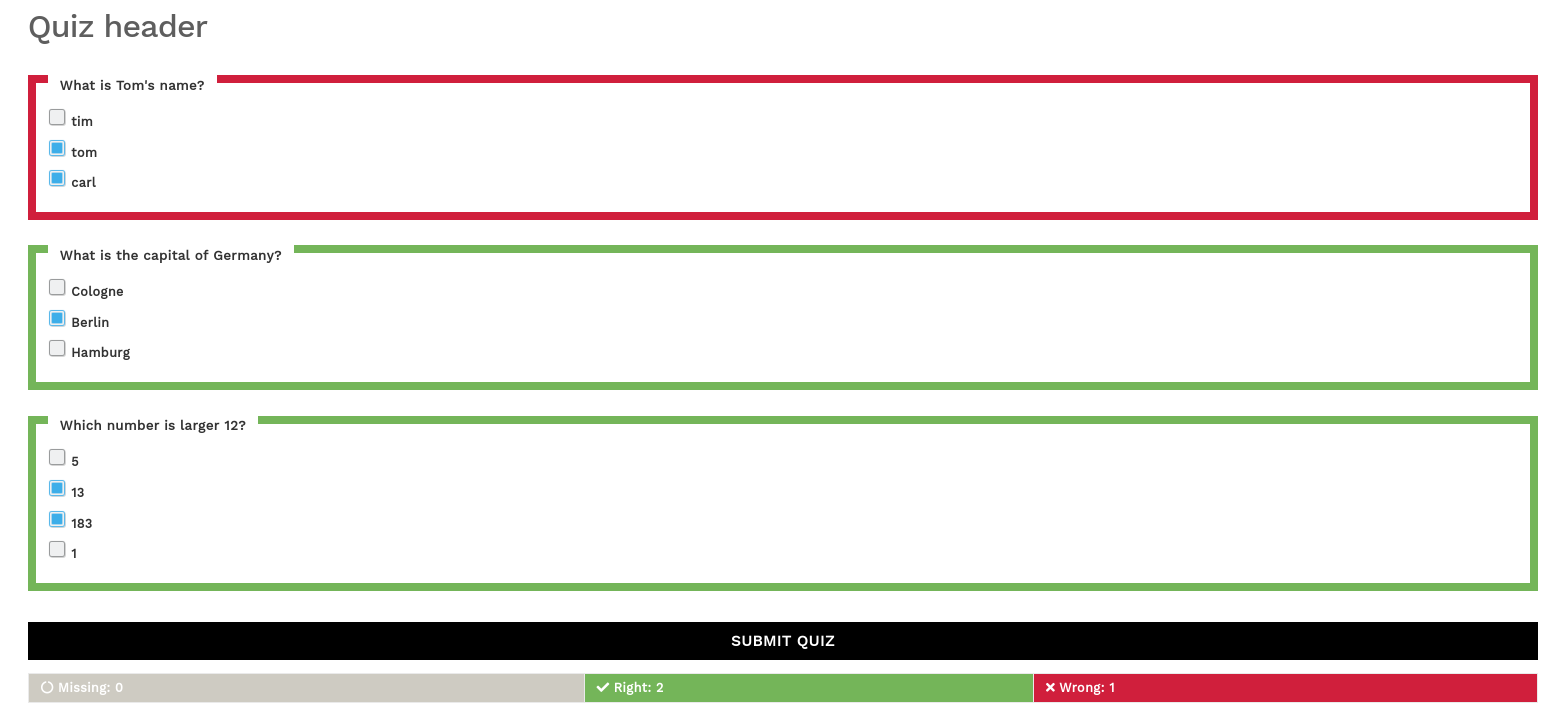
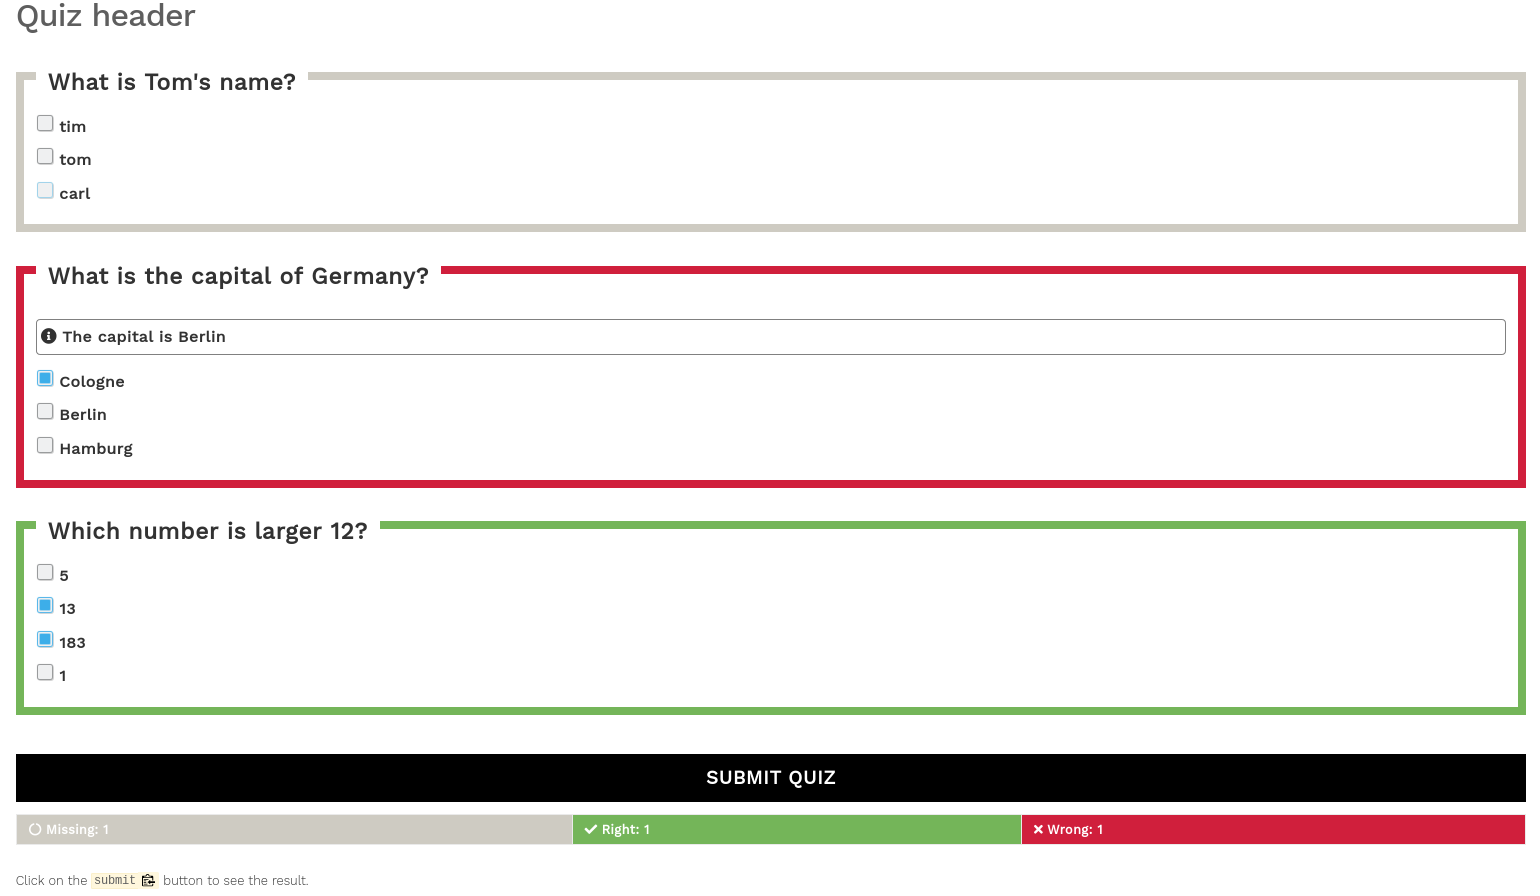
update to hugo 0.80.0 and add hints to questions (#5)
* update readme

* update hugo version

* update demo page

* add hint to questions

* update readme

* update styling

* update demo image

Changed region(s): [[0.0, 0.583, 0.9974, 1.0], [0.0, 0.0, 0.9974, 0.5523]]

diff --git a/demo/static/js/quiz.js b/demo/static/js/quiz.js
@@ -77,7 +77,7 @@ Quiz.prototype.create = function() {
 
 Quiz.prototype.submit = function() {
     var missing = 0,
-        right = 0,
+        right = this.getQuestions().length,
         wrong = 0;
 
     for (var q of this.getQuestions()) {
@@ -164,13 +164,15 @@ Result.prototype.render = function(id) {
 /**
  * @param {string} question to ask
  * @param {array} options to choose from
- * @param {integer} right option array index
+ * @param {array} right option array index
+ * @param {string} hint text that shows after wrong answer
  */
-function Question(question, options, rightOptions) {
+function Question(question, options, rightOptions, hint) {
     this.question = question;
     this.rightOptions = rightOptions;
     this.uid =  this._uid();
     this.options = this._createOptions(options);
+    this.hint = this._createHint(hint);
 
     this.RNDR_RIGHT = "#74b559",
     this.RNDR_WRONG = "#D01F3C",
@@ -185,6 +187,14 @@ Question.prototype._uid = function() {
     // https://stackoverflow.com/questions/3242324/javascript-dateobj-gettime-for-a-uid-is-the-length-not-fixed
     return "q" + Math.random().toString(36).substr(2,9);
 };
+
+/**
+ * @param  {array} options
+ * @return {array} of Option objects
+ */
+Question.prototype._createHint = function(_hint) {
+    return new Hint(_hint, this.uid);
+}
 
 
 /**
@@ -239,24 +249,29 @@ Question.prototype.render = function() {
 
     fieldset.classList.add('animated', 'fadeIn')
 
-
-
+    fieldset.insertBefore(this.hint.render(), fieldset.firstChild);
     return fieldset;
 };
 
 
 Question.prototype.renderMissing = function() {
-    document.getElementById(this.uid).style.borderColor = this.RNDR_MISSING;
+    var fieldset = document.getElementById(this.uid)
+    fieldset.style.borderColor = this.RNDR_MISSING;
 };
 
 
 Question.prototype.renderRight = function(first_argument) {
-    document.getElementById(this.uid).style.borderColor = this.RNDR_RIGHT;
+    var fieldset = document.getElementById(this.uid)
+    fieldset.style.borderColor = this.RNDR_RIGHT;
+    fieldset.getElementsByClassName('hint')[0].style = "display: none;";   
 };
 
 
 Question.prototype.renderWrong = function() {
-    document.getElementById(this.uid).style.borderColor = this.RNDR_WRONG;
+    var fieldset = document.getElementById(this.uid)
+    fieldset.style.borderColor = this.RNDR_WRONG;
+    fieldset.getElementsByClassName('hint')[0].style = "display: block;";   
+    
 };
 
 /**
@@ -273,6 +288,30 @@ Question.prototype.isRight = function(choice) {
     return false;   
 };
 
+/**
+ * @param {string} option value
+ * @param {string} Question uid
+ */
+function Hint(value, uid) {
+    this.value = value;
+    this.uid = uid;
+}
+
+
+/**
+ * Renders HTML.
+ * @return {DOM Element}
+ */
+Hint.prototype.render = function() {
+    var para = document.createElement("p");
+    para.innerHTML = '<i class="fas fa-info-circle"></i> ' + this.value;
+    para.style="display: none;";
+    para.classList.add('hint');
+    return para;
+};
+
+
+
 
 /**
  * @param {string} option value
@@ -283,6 +322,7 @@ function Option(value, uid) {
     this.uid = uid;
     this.checked = false;
 }
+
 
 
 /**

diff --git a/demo/layouts/shortcodes/quiz.html b/demo/layouts/shortcodes/quiz.html
@@ -8,15 +8,24 @@
 }
 
 .quiz legend {
-    font-size: 105%;
-    font-weight: 600;
+    font-size: 1.8rem;
+    font-weight: bold;
     padding-left: 15px;
     padding-right: 15px;
     padding-top: 15px;
 }
 
+.quiz .hint {
+	border: 2px solid gray;
+	border-radius: 5px;
+	padding: 5px;
+    font-size:1.25rem;
+	font-weight: bold;
+}
+
 .quiz label {
     display: block;
+    font-size:1.25rem;
     line-height: 1.75em;
 }
 
@@ -30,8 +39,8 @@
     background: black;
     color: white;
     display: block;
-    font-size: 120%;
-    font-weight: 600;
+    font-weight: bold;
+    font-size: 1.5rem;
     height: 2.5em;
     margin-top: 2em;
     text-transform: uppercase;

diff --git a/demo/layouts/shortcodes/item.html b/demo/layouts/shortcodes/item.html
@@ -3,10 +3,10 @@
     var choices = "{{ .Get "choices"}}".split(",");
     var id = "{{with .Parent }}{{.Get 0}}{{ end }}";
     var question = "{{ .Get "question"}}";
+    var hint = "{{ .Get "hint"}}";
     var answers = {{ .Get "answers"}}.split(",").map(Number);
-    console.log(answers)
     if (! (id in questions)){
       questions[id] = [];
     }
-    questions[id].push(new Question(question, choices, answers));
+    questions[id].push(new Question(question, choices, answers, hint));
 </script>

diff --git a/README.md b/README.md
@@ -1,10 +1,12 @@
 # hugo-quiz
 
-A custom [hugo shortcode](https://gohugo.io/content-management/shortcodes/#readout) for interactive quizzes. See the demo [here](https://bonartm.github.io/hugo-quiz/).
+A simple custom [hugo shortcode](https://gohugo.io/content-management/shortcodes/#readout) for basic interactive quizzes. See the demo [here](https://bonartm.github.io/hugo-quiz/).
+
+These quizzes are for fun and not for serious assessment. Since everything is rendered on the client side, the hints and solutions to the questions are visible in the source code. 
 
 ## Installation
 
-- Tested with version `0.57.2` of Hugo.
+- Tested with version `0.80.0` of Hugo and the 
 - Copy the content from `demo/shortcodes` and `demo/static/js` into your local hugo project folder.
 
 ## Usage
@@ -15,15 +17,30 @@ Create quizzes as hugo shortcodes in any of your markdown files in the `content`
 
 Here is a simple example of a quiz, written in markdown using hugo shortcodes
 
-{{% quiz test_quiz%}}
-
 ## Quiz header
 
-{{< item question="What is Tom's name?" answers="2" choices="tim,tom,carl" >}}
-{{< item question="What is the capital of Germany?" answers="2" choices="Cologne,Berlin,Hamburg" >}}
-{{< item question="Which number is larger 12?" answers="2,3" choices="5,13,183,1" >}}
+{{< quiz test_quiz >}}
 
-{{% /quiz %}}
+{{< item 
+    question="What is Tom's name?" 
+    answers="2" 
+    choices="tim,tom,carl"
+    hint="Tom's name is tom..."
+>}}
+{{< item 
+    question="What is the capital of Germany?" 
+    answers="2" 
+    choices="Cologne,Berlin,Hamburg"
+    hint="The capital is Berlin"
+>}}
+{{< item 
+    question="Which number is larger 12?"
+    answers="2,3" 
+    choices="5,13,183,1"
+    hint="Two numbers are larger!"
+>}}
+
+{{< /quiz >}}
 
 Click on the `submit` button to see the result.
 ```
@@ -34,7 +51,13 @@ Click on the `submit` button to see the result.
 
 Visit https://bonartm.github.io/hugo-quiz/ for a live demo based on the [hugo-learn](https://themes.gohugo.io/theme/hugo-theme-learn/en) theme.
 
-You can also view a local of version of the demo by typing:
+You can also view a local of version of the demo. First download the theme:
+
+```shell
+git submodule update --init --recursive
+```
+
+Then start the server:
 
 ```shell
 cd demo

diff --git a/demo/content/_index.md b/demo/content/_index.md
@@ -8,14 +8,29 @@ page: true
 
 Here is a simple example of a quiz, written in markdown using hugo shortcodes
 
-{{% quiz test_quiz%}}
-
 ## Quiz header
 
-{{< item question="What is Tom's name?" answers="2" choices="tim,tom,carl" >}}
-{{< item question="What is the capital of Germany?" answers="2" choices="Cologne,Berlin,Hamburg" >}}
-{{< item question="Which number is larger 12?" answers="2,3" choices="5,13,183,1" >}}
+{{< quiz test_quiz >}}
 
-{{% /quiz %}}
+{{< item 
+    question="What is Tom's name?" 
+    answers="2" 
+    choices="tim,tom,carl"
+    hint="Tom's name is tom..."
+>}}
+{{< item 
+    question="What is the capital of Germany?" 
+    answers="2" 
+    choices="Cologne,Berlin,Hamburg"
+    hint="The capital is Berlin"
+>}}
+{{< item 
+    question="Which number is larger 12?"
+    answers="2,3" 
+    choices="5,13,183,1"
+    hint="Two numbers are larger!"
+>}}
+
+{{< /quiz >}}
 
 Click on the `submit` button to see the result.
